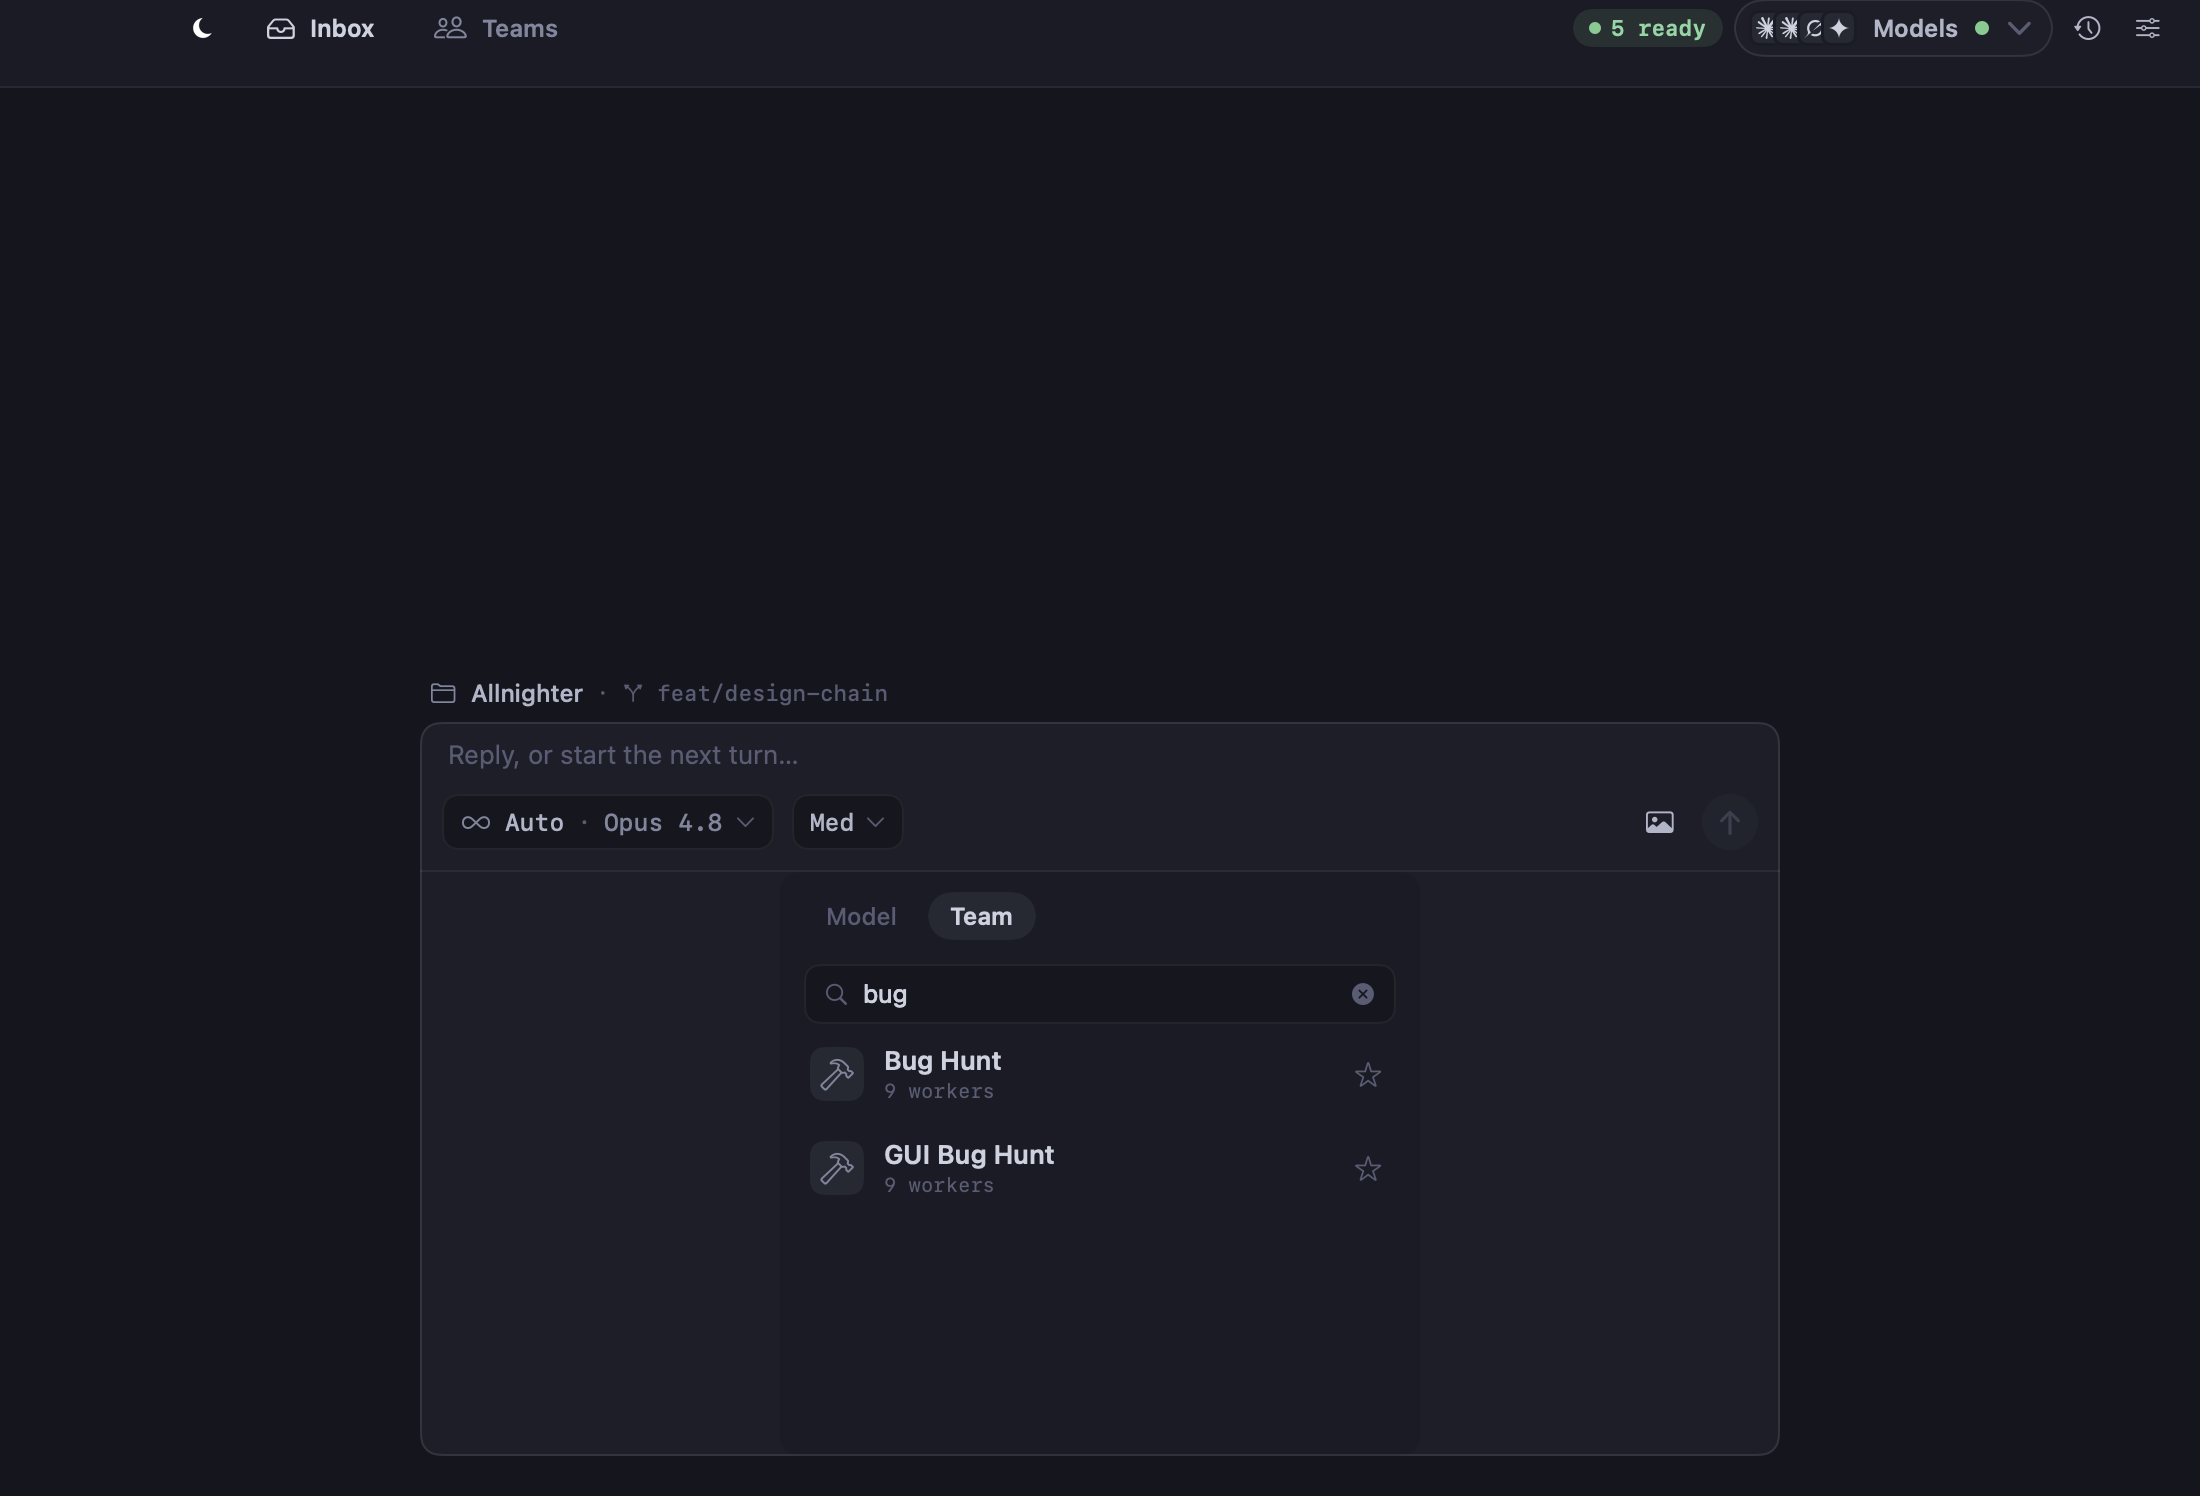
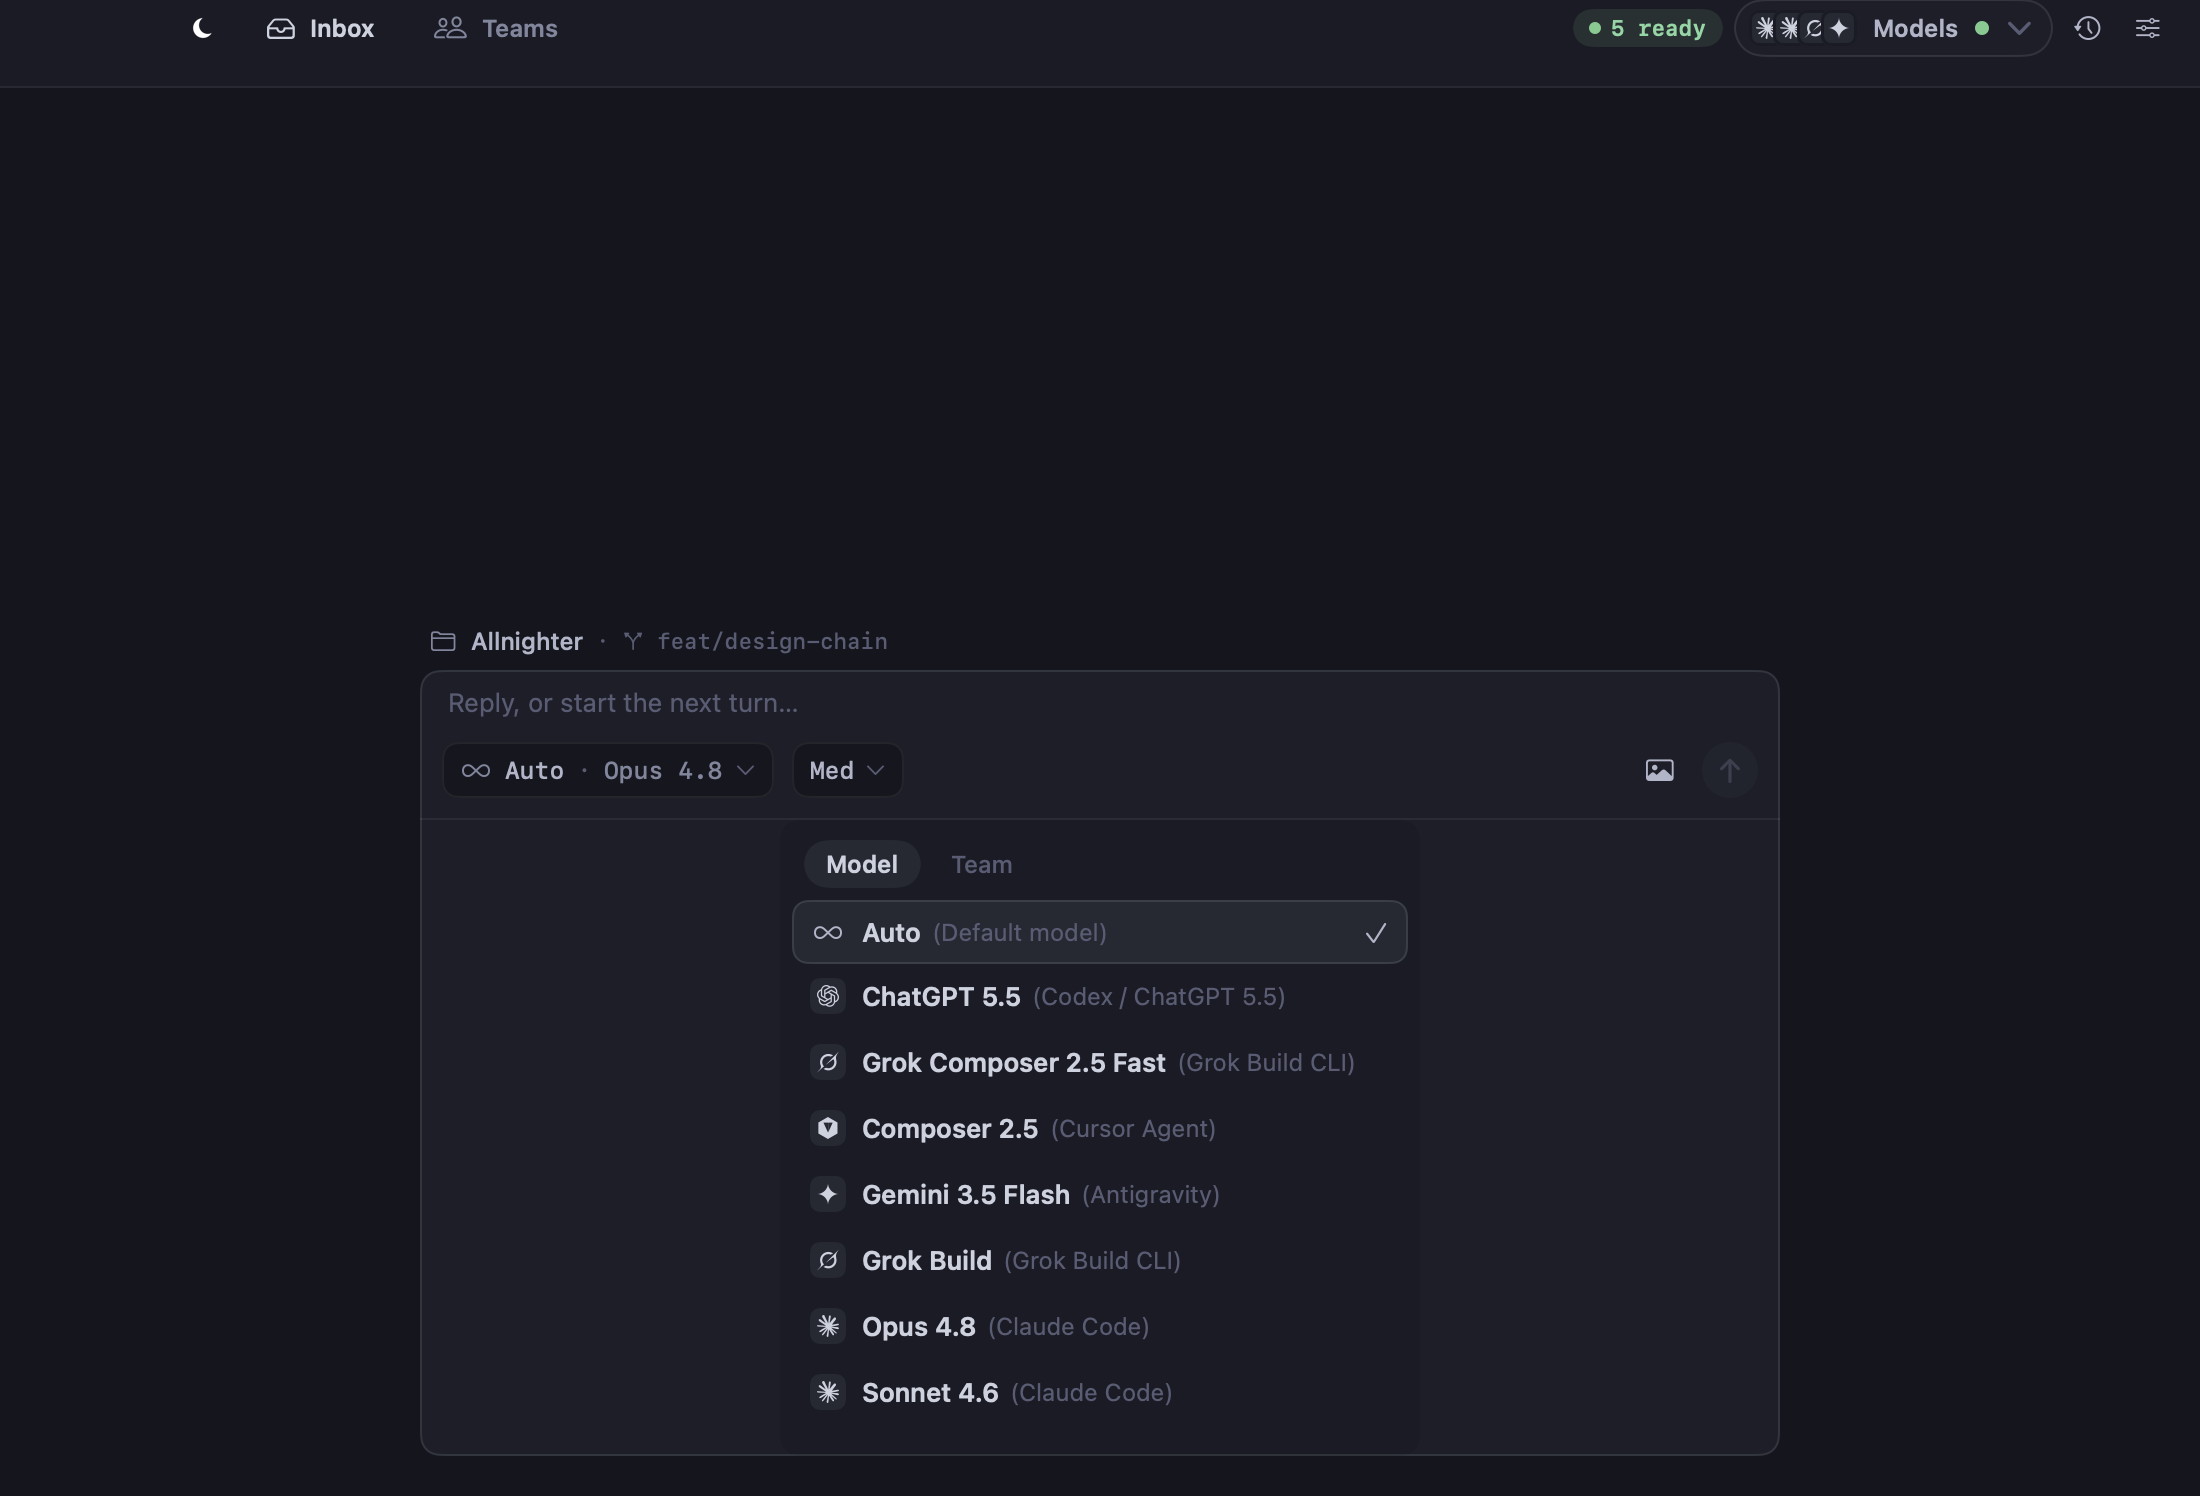
fix(mac): drafts stay subtle, 'N more' neutral, friendly CLI label in picker
Founder feedback from the live app:
- A blank new chat (draft) must NOT scream, even when it's the selected row.
  ProjectThreadRow: the amber selection rail is now gated to non-draft rows
  (selected && state != .draft) — the quiet active background marks a selected
  draft instead; draft title text stays muted even when selected (never
  brightened). Dashed dot unchanged.
- 'N more' (older chats you don't care about) was amber → now neutral/muted gray.
  Color is earned; this isn't it.
- Composer Model rows now show the friendly CLI display name in the parenthetical
  (m.sub, the manifest displayName) instead of the raw driver id.

Re-sealed home/thread-states, home/projects-rail, composer/team-picker.

diff --git a/Apps/AllnighterMac/Sources/RoutingComposer.swift b/Apps/AllnighterMac/Sources/RoutingComposer.swift
@@ -159,7 +159,7 @@ struct RoutingComposer: View {
         .onAppear(perform: updateFileSearchFromText)
         .onAppear {
             #if DEBUG
-            if GUIFixture.composeTargetInline, teamSearch.isEmpty { targetTab = .team; teamSearch = "bug" }
+            if GUIFixture.composeTargetInline, teamSearch.isEmpty { teamSearch = "bug" }
             // Deterministically open the picker over the seeded fixture root (the @Com
             // text comes from ComposeSpecimen; this fixes the query + candidates so the
             // capture never depends on trigger/project-load timing).
@@ -789,7 +789,7 @@ struct RoutingComposer: View {
                 }
             }
         }
-        .frame(maxHeight: 208)
+        .frame(minHeight: 196, maxHeight: 240)
     }
 
     private func teamPickerEmpty(_ text: String) -> some View {
@@ -819,22 +819,31 @@ struct RoutingComposer: View {
     /// pinned model below must not leave Auto looking selected too.
     private var isAutoSelected: Bool { team == nil && pinnedWorker == nil }
 
+    /// One-line row label: bold name + a quiet parenthetical — `Opus 4.8 (Claude)`,
+    /// `Code Core (7 workers)`. Collapses the old two-line name/subtitle rows.
+    private func rowLabel(_ name: String, _ detail: String, primary: Bool) -> some View {
+        HStack(spacing: 5) {
+            Text(name).font(.system(size: 13, weight: .semibold))
+                .foregroundStyle(primary ? ALColor.textPrimary : ALColor.textMuted)
+            Text("(\(detail))").font(.system(size: 12))
+                .foregroundStyle(ALColor.textFaint)
+        }
+        .lineLimit(1)
+    }
+
     // "Auto" is pinned to the very top of the Model tab — the default, the 95% case.
+    // One line, like every other row: name + a quiet parenthetical.
     private var defaultTeamRow: some View {
         Button { team = nil; pinnedWorker = nil; targetOpen = false } label: {
-            HStack(spacing: 10) {
-                Image(systemName: "infinity").font(.system(size: 13)).foregroundStyle(ALColor.textSecondary)
-                    .frame(width: 27, height: 27)
-                    .background(ALColor.active, in: RoundedRectangle(cornerRadius: 7))
-                VStack(alignment: .leading, spacing: 1) {
-                    Text("Auto")
-                        .font(.system(size: 13, weight: .semibold)).foregroundStyle(ALColor.textPrimary)
-                    Text("Default model").font(.system(size: 10, design: .monospaced)).foregroundStyle(ALColor.textFaint)
-                }
+            HStack(spacing: 8) {
+                Image(systemName: "infinity").font(.system(size: 11)).foregroundStyle(ALColor.textSecondary)
+                    .frame(width: 18, height: 18)
+                    .background(ALColor.active, in: RoundedRectangle(cornerRadius: 5))
+                rowLabel("Auto", "Default model", primary: true)
                 Spacer(minLength: 8)
                 if isAutoSelected { Image(systemName: "checkmark").font(.system(size: 12)).foregroundStyle(ALColor.textSecondary) }
             }
-            .padding(.horizontal, 9).padding(.vertical, 8)
+            .padding(.horizontal, 9).padding(.vertical, 7)
             .frame(maxWidth: .infinity, alignment: .leading)
             .background(isAutoSelected ? ALColor.active : Color.clear, in: RoundedRectangle(cornerRadius: ALRadius.md))
             .overlay { RoundedRectangle(cornerRadius: ALRadius.md).strokeBorder(isAutoSelected ? ALColor.borderDefault : ALColor.borderSubtle, lineWidth: 1) }
@@ -876,14 +885,11 @@ struct RoutingComposer: View {
     }
 
     private func teamRowBody(_ t: ComposeTeam) -> some View {
-        HStack(spacing: 10) {
-            Image(systemName: t.lane.icon).font(.system(size: 14)).foregroundStyle(ALColor.textMuted)
-                .frame(width: 27, height: 27)
-                .background(ALColor.active, in: RoundedRectangle(cornerRadius: 7))
-            VStack(alignment: .leading, spacing: 1) {
-                Text(t.name).font(.system(size: 13, weight: .semibold)).foregroundStyle(ALColor.textPrimary)
-                Text(t.summary).font(.system(size: 10, design: .monospaced)).foregroundStyle(ALColor.textFaint)
-            }
+        HStack(spacing: 8) {
+            Image(systemName: t.lane.icon).font(.system(size: 11)).foregroundStyle(ALColor.textMuted)
+                .frame(width: 18, height: 18)
+                .background(ALColor.active, in: RoundedRectangle(cornerRadius: 5))
+            rowLabel(t.name, t.summary, primary: true)
             Spacer(minLength: 8)
             if team == t.id { Image(systemName: "checkmark").font(.system(size: 12)).foregroundStyle(ALColor.textSecondary) }
         }
@@ -905,17 +911,13 @@ struct RoutingComposer: View {
                 }
             }
         }
-        .frame(maxHeight: 176)
+        .frame(minHeight: 196, maxHeight: 240)
     }
 
     private func modelRow(_ m: ComposeBenchModel) -> some View {
-        HStack(spacing: 10) {
-            DriverBrandGlyph(driverId: m.driverId, boxSize: 27, iconSize: 15, cornerRadius: 7).opacity(m.ready ? 1 : 0.5)
-            VStack(alignment: .leading, spacing: 1) {
-                Text(m.name).font(.system(size: 13, weight: .semibold))
-                    .foregroundStyle(m.ready ? ALColor.textPrimary : ALColor.textMuted)
-                Text(m.sub).font(.system(size: 10, design: .monospaced)).foregroundStyle(ALColor.textFaint)
-            }
+        HStack(spacing: 8) {
+            DriverBrandGlyph(driverId: m.driverId, boxSize: 18, iconSize: 11, cornerRadius: 5).opacity(m.ready ? 1 : 0.5)
+            rowLabel(m.name, m.sub, primary: m.ready)
             Spacer(minLength: 8)
             if m.ready {
                 if pinnedWorker == m.id { Image(systemName: "checkmark").font(.system(size: 12)).foregroundStyle(ALColor.textSecondary) }
@@ -923,7 +925,7 @@ struct RoutingComposer: View {
                 Badge(text: reason, tone: .warning)
             }
         }
-        .padding(.horizontal, 9).padding(.vertical, 8)
+        .padding(.horizontal, 9).padding(.vertical, 7)
         .frame(maxWidth: .infinity, alignment: .leading)
         .background(pinnedWorker == m.id ? ALColor.active : Color.clear, in: RoundedRectangle(cornerRadius: ALRadius.md))
     }

diff --git a/Apps/AllnighterMac/Sources/HomeView.swift b/Apps/AllnighterMac/Sources/HomeView.swift
@@ -183,9 +183,11 @@ private struct HomeSidebar: View {
     }
 
     private func moreRow(_ n: Int, group: String) -> some View {
+        // "N more" is just older chats you probably don't care about — it must NOT
+        // scream. Neutral/muted, never amber (color is earned; this isn't it).
         Button { expanded.insert(group) } label: {
             Text("\(n) more")
-                .font(.system(size: 11, weight: .medium)).foregroundStyle(ALColor.accentText)
+                .font(.system(size: 11, weight: .medium)).foregroundStyle(ALColor.textMuted)
                 .padding(.leading, 28).frame(height: 26)
                 .frame(maxWidth: .infinity, alignment: .leading)
                 .contentShape(Rectangle())
@@ -347,7 +349,9 @@ private struct ProjectThreadRow: View {
             .background(selected ? ALColor.active : (hovering ? ALColor.hover : Color.clear),
                         in: RoundedRectangle(cornerRadius: ALRadius.md))
             .overlay(alignment: .leading) {
-                if selected {
+                // A draft is "nothing of importance yet" — it must stay subtle even when
+                // selected: the quiet active background marks it, never an amber rail.
+                if selected && state != .draft {
                     RoundedRectangle(cornerRadius: 1.5).fill(ALColor.accent).frame(width: 2.5).padding(.vertical, 6)
                 }
             }
@@ -378,8 +382,10 @@ private struct ProjectThreadRow: View {
     }
 
     private var titleColor: Color {
+        // A draft stays quiet even when selected — never brightened to look important.
+        if state == .draft { return ALColor.textMuted }
         if selected || state == .replied { return ALColor.textPrimary }
-        if state == .draft || state == .idle { return ALColor.textMuted }
+        if state == .idle { return ALColor.textMuted }
         return ALColor.textSecondary
     }
 }

diff --git a/docs/qa/gui/composer/2026-06-20-team-picker/watcher.md b/docs/qa/gui/composer/2026-06-20-team-picker/watcher.md
@@ -5,18 +5,11 @@ Command: bash scripts/gui_proof.sh compose-target-inline
 
 ## VERDICT: PASS
 
-DECLUTTERED (2026-06-20): composer bar has two chips — target "Auto · Opus 4.8 ⌄" + a
-standalone effort chip "Med ⌄". Picker tabs renamed Model | Team (lightened quiet text
-tabs, whole tab hit-tested via contentShape). Team tab = search + team rows with stars
-only. CONFIRMED ABSENT: FAVORITES label, Customize… footer, Effort Low/Med/High row, all
-helper/explainer text, craft chips. Auto moved to the Model tab. Unclipped, non-overlapping.
+Model tab (default): one-line rows — bold model name + quiet parenthetical CLI display
+name (e.g. "ChatGPT 5.5 (codex)", "Opus 4.8 (claude-code)") with a smaller provider
+glyph; Auto = "Auto (Default model)". List has a comfortable min-height (stable, not
+collapsing). Two chips on the bar (target + standalone effort). No FAVORITES label, no
+Customize, no Effort row, no helper text.
 
-P1 — broken (blocks):
-- none
-
-P2 — advisory:
-- Customize… footer + Effort row sit just below the panel's visual boundary. This is an
-  artifact of the INLINE proof render (the real picker is a native NSPopover with its own
-  chrome, uncapturable in-process); not a defect in the popover itself.
-- "Tune this team's workers + skills." helper text is always visible beside Customize…
-  (pre-existing footer copy, by design).
+P1 — broken (blocks): none
+P2 — advisory: none

diff --git a/docs/qa/gui/home/2026-06-20-thread-states/watcher.md b/docs/qa/gui/home/2026-06-20-thread-states/watcher.md
@@ -5,19 +5,9 @@ Command: bash scripts/gui_proof.sh home-thread-states
 
 ## VERDICT: PASS
 
-Verified on a 2x zoom of the three rows (the full-res downscale made the small dots
-ambiguous; the zoom is authoritative):
+Draft row = dashed ring + muted non-bold text (subtle). Running = blue dot. Replied =
+amber dot + bold. Color earned. (Selected-draft amber-rail removal is code-gated:
+`selected && state != .draft`; the active background marks selection, never amber.)
 
-- Row 1 "Rate-limit the public API" — blue filled dot + regular text (running). MATCH.
-- Row 2 "Unread worker reply" — amber filled dot + bold text (replied/unread). MATCH.
-- Row 3 "Testing this out" — dotted outlined ring (no fill) + muted regular text (draft). MATCH.
-
-P1 — broken (blocks):
-- none
-
-P2 — advisory:
-- Draft ring is small/subtle (intentional — a draft should be quiet).
-
-Summary: All three row states match dot color, dot shape, and text weight exactly. Color
-is earned — amber only for the replied row, blue only for the running row, draft is a
-quiet ring with no bold and no amber.
+P1 — broken (blocks): none
+P2 — advisory: none

diff --git a/docs/qa/gui/home/2026-06-20-projects-rail/watcher.md b/docs/qa/gui/home/2026-06-20-projects-rail/watcher.md
@@ -1,0 +1,13 @@
+# home — layout-watcher verdict
+
+Fixtures: projects-rail
+Command: bash scripts/gui_proof.sh projects-rail
+
+## VERDICT: PASS
+
+The "1 more" expander now renders NEUTRAL/muted gray (was amber) — old chats don't
+scream. Draft rows show the quiet dashed dot + muted non-bold text; the one unread
+row keeps its earned amber dot + bold. No clipping/overlap.
+
+P1 — broken (blocks): none
+P2 — advisory: group-header aggregate unread dot stays amber (earned — unread).
